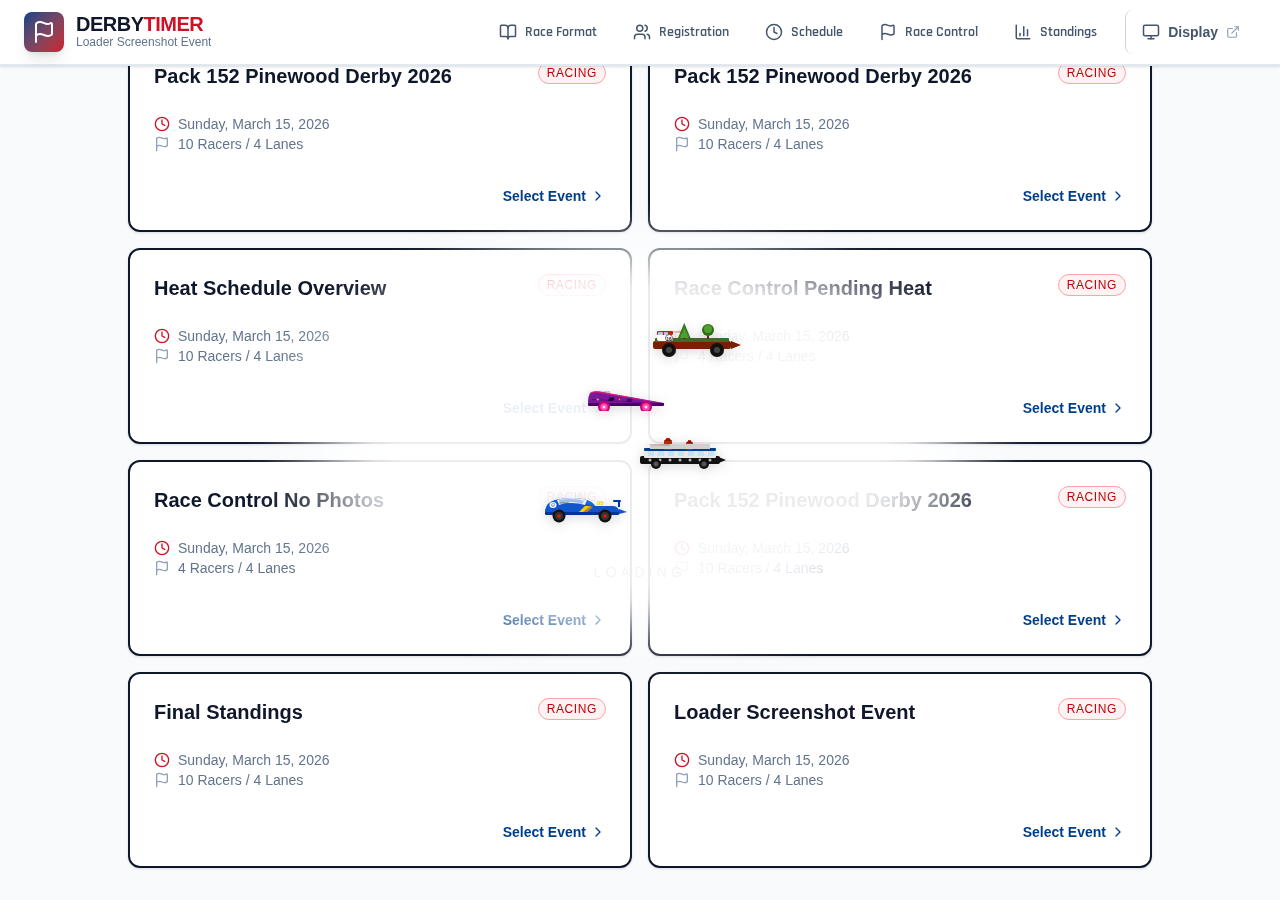
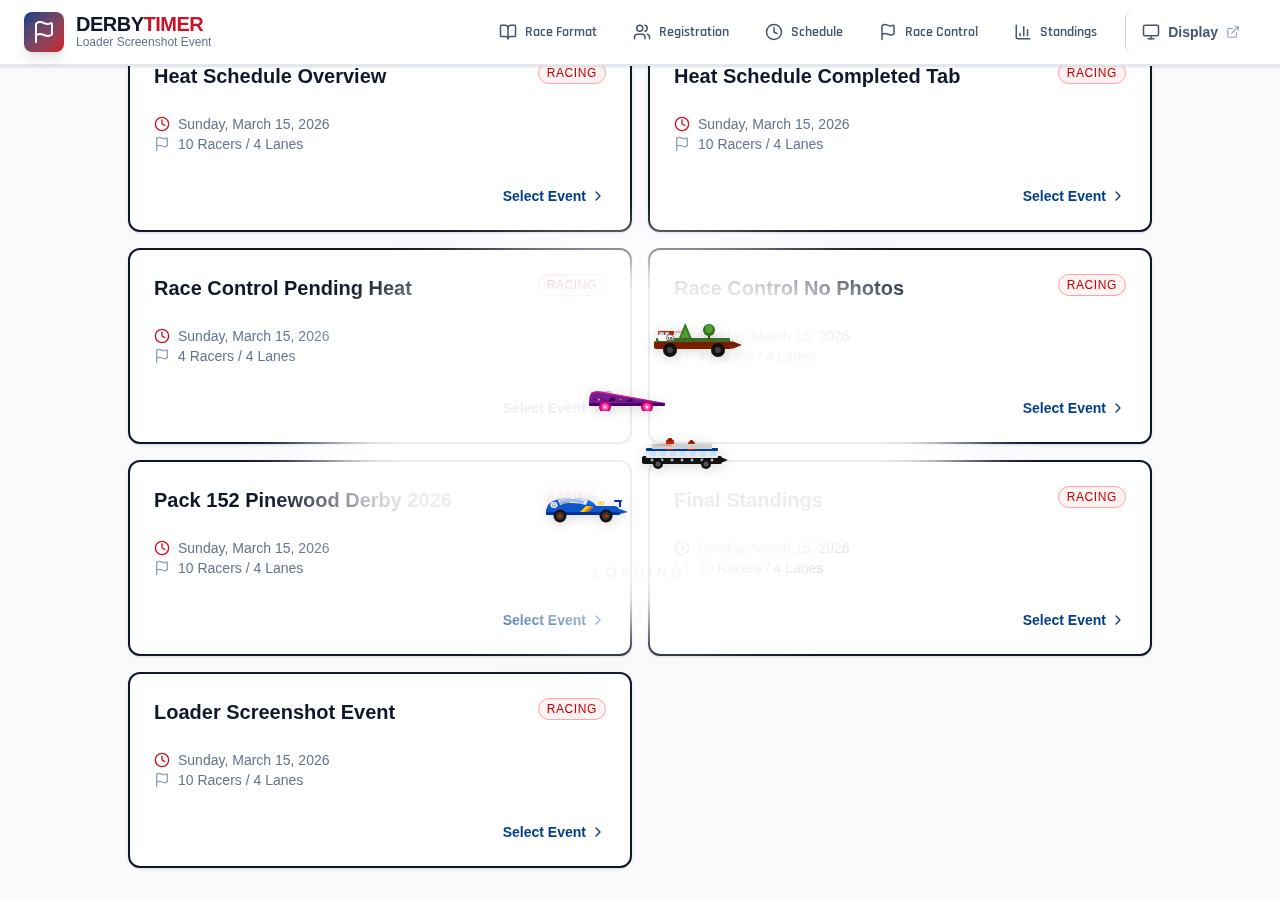
feat: add heat schedule completed tab screenshot (06) and reindex screenshots
- New 06-heat-schedule-completed.png showing the Completed tab with 8 races done
- Renumber 06–12 → 07–13 to make room

diff --git a/e2e/screenshots.playwright.ts b/e2e/screenshots.playwright.ts
@@ -200,7 +200,39 @@ test('05-heat-schedule', async ({ page }) => {
   saveIfChanged('screenshots/05-heat-schedule.png', await page.screenshot({ fullPage: true }));
 });
 
-test('06-race-control-pending', async ({ page }) => {
+test('06-heat-schedule-completed', async ({ page }) => {
+  await page.setViewportSize({ width: 1280, height: 900 });
+  const event = await seedEvent({ name: 'Heat Schedule Completed Tab' });
+
+  // Complete 8 heats so the Completed tab has data
+  const heatsRes = await fetch(`${baseUrl}/api/events/${event.id}/heats`);
+  const heats = await heatsRes.json();
+
+  for (let h = 0; h < 8 && h < heats.length; h++) {
+    const heatId = heats[h].id;
+    await fetch(`${baseUrl}/api/heats/${heatId}/start`, { method: 'POST' });
+    const results = heats[h].lanes.map((lane: any, idx: number) => ({
+      lane_number: lane.lane_number,
+      racer_id: lane.racer_id,
+      place: ((idx + h) % 4) + 1
+    }));
+    await fetch(`${baseUrl}/api/heats/${heatId}/results`, {
+      method: 'POST',
+      headers: { 'Content-Type': 'application/json' },
+      body: JSON.stringify({ results }),
+    });
+  }
+
+  await page.goto(`${baseUrl}/`);
+  await page.click(`[data-testid="event-card"]:has-text("${event.name}")`);
+  await page.click('[data-testid="nav-heats"]');
+  await page.click('[data-testid="tab-completed"]');
+  await page.waitForTimeout(600);
+
+  saveIfChanged('screenshots/06-heat-schedule-completed.png', await page.screenshot({ fullPage: true }));
+});
+
+test('07-race-control-pending', async ({ page }) => {
   await page.setViewportSize({ width: 1280, height: 900 });
   const event = await seedEvent({
     name: 'Race Control Pending Heat',
@@ -217,10 +249,10 @@ test('06-race-control-pending', async ({ page }) => {
   await page.click('[data-testid="nav-race"]');
   await page.waitForTimeout(600);
 
-  saveIfChanged('screenshots/06-race-control-pending.png', await page.screenshot({ fullPage: true }));
+  saveIfChanged('screenshots/07-race-control-pending.png', await page.screenshot({ fullPage: true }));
 });
 
-test('07-race-control-no-photos', async ({ page }) => {
+test('08-race-control-no-photos', async ({ page }) => {
   await page.setViewportSize({ width: 1280, height: 900 });
   // Ensure we have a heat with NO photos
   const event = await seedEvent({
@@ -238,10 +270,10 @@ test('07-race-control-no-photos', async ({ page }) => {
   await page.click('[data-testid="nav-race"]');
   await page.waitForTimeout(600);
 
-  saveIfChanged('screenshots/07-race-control-no-photos.png', await page.screenshot({ fullPage: true }));
+  saveIfChanged('screenshots/08-race-control-no-photos.png', await page.screenshot({ fullPage: true }));
 });
 
-test('08-race-control-running', async ({ page }) => {
+test('09-race-control-running', async ({ page }) => {
   await page.setViewportSize({ width: 1280, height: 900 });
   const event = await seedEvent();
 
@@ -258,10 +290,10 @@ test('08-race-control-running', async ({ page }) => {
   await page.click('[data-testid="lane-row-2"] [data-testid="place-btn-2"]');
   await page.waitForTimeout(400);
 
-  saveIfChanged('screenshots/08-race-control-running.png', await page.screenshot({ fullPage: true }));
+  saveIfChanged('screenshots/09-race-control-running.png', await page.screenshot({ fullPage: true }));
 });
 
-test('09-standings', async ({ page }) => {
+test('10-standings', async ({ page }) => {
   await page.setViewportSize({ width: 1280, height: 900 });
   const event = await seedEvent({ name: 'Final Standings' });
 
@@ -289,7 +321,7 @@ test('09-standings', async ({ page }) => {
   await page.click('[data-testid="nav-standings"]');
   await page.waitForTimeout(600);
 
-  saveIfChanged('screenshots/09-standings.png', await page.screenshot({ fullPage: true }));
+  saveIfChanged('screenshots/10-standings.png', await page.screenshot({ fullPage: true }));
 });
 
 test('00-loader', async ({ page }) => {
@@ -314,7 +346,7 @@ test('00-loader', async ({ page }) => {
   saveIfChanged('screenshots/00-loader.png', await page.screenshot());
 });
 
-test('10-external-display', async ({ page }) => {
+test('11-external-display', async ({ page }) => {
   await page.setViewportSize({ width: 1280, height: 720 });
   const event = await seedEvent({ name: 'External Projector Display' });
 
@@ -355,10 +387,10 @@ test('10-external-display', async ({ page }) => {
   await page.goto(`${baseUrl}/display`);
   await page.waitForTimeout(1000);
 
-  saveIfChanged('screenshots/10-external-display.png', await page.screenshot());
+  saveIfChanged('screenshots/11-external-display.png', await page.screenshot());
 });
 
-test('11-racer-profile-with-photo', async ({ page }) => {
+test('12-racer-profile-with-photo', async ({ page }) => {
   await page.setViewportSize({ width: 1280, height: 900 });
   const event = await seedEvent({ name: 'Final Standings' });
 
@@ -390,10 +422,10 @@ test('11-racer-profile-with-photo', async ({ page }) => {
   await page.click('[data-testid="standing-card-1"]');
   await page.waitForTimeout(1000);
 
-  saveIfChanged('screenshots/11-racer-profile-with-photo.png', await page.screenshot());
+  saveIfChanged('screenshots/12-racer-profile-with-photo.png', await page.screenshot());
 });
 
-test('12-racer-profile-no-photo', async ({ page }) => {
+test('13-racer-profile-no-photo', async ({ page }) => {
   await page.setViewportSize({ width: 1280, height: 900 });
   const event = await seedEvent({ name: 'Final Standings' });
 
@@ -425,5 +457,5 @@ test('12-racer-profile-no-photo', async ({ page }) => {
   await page.click('[data-testid="standing-card-2"]');
   await page.waitForTimeout(1000);
 
-  saveIfChanged('screenshots/12-racer-profile-no-photo.png', await page.screenshot());
+  saveIfChanged('screenshots/13-racer-profile-no-photo.png', await page.screenshot());
 });
